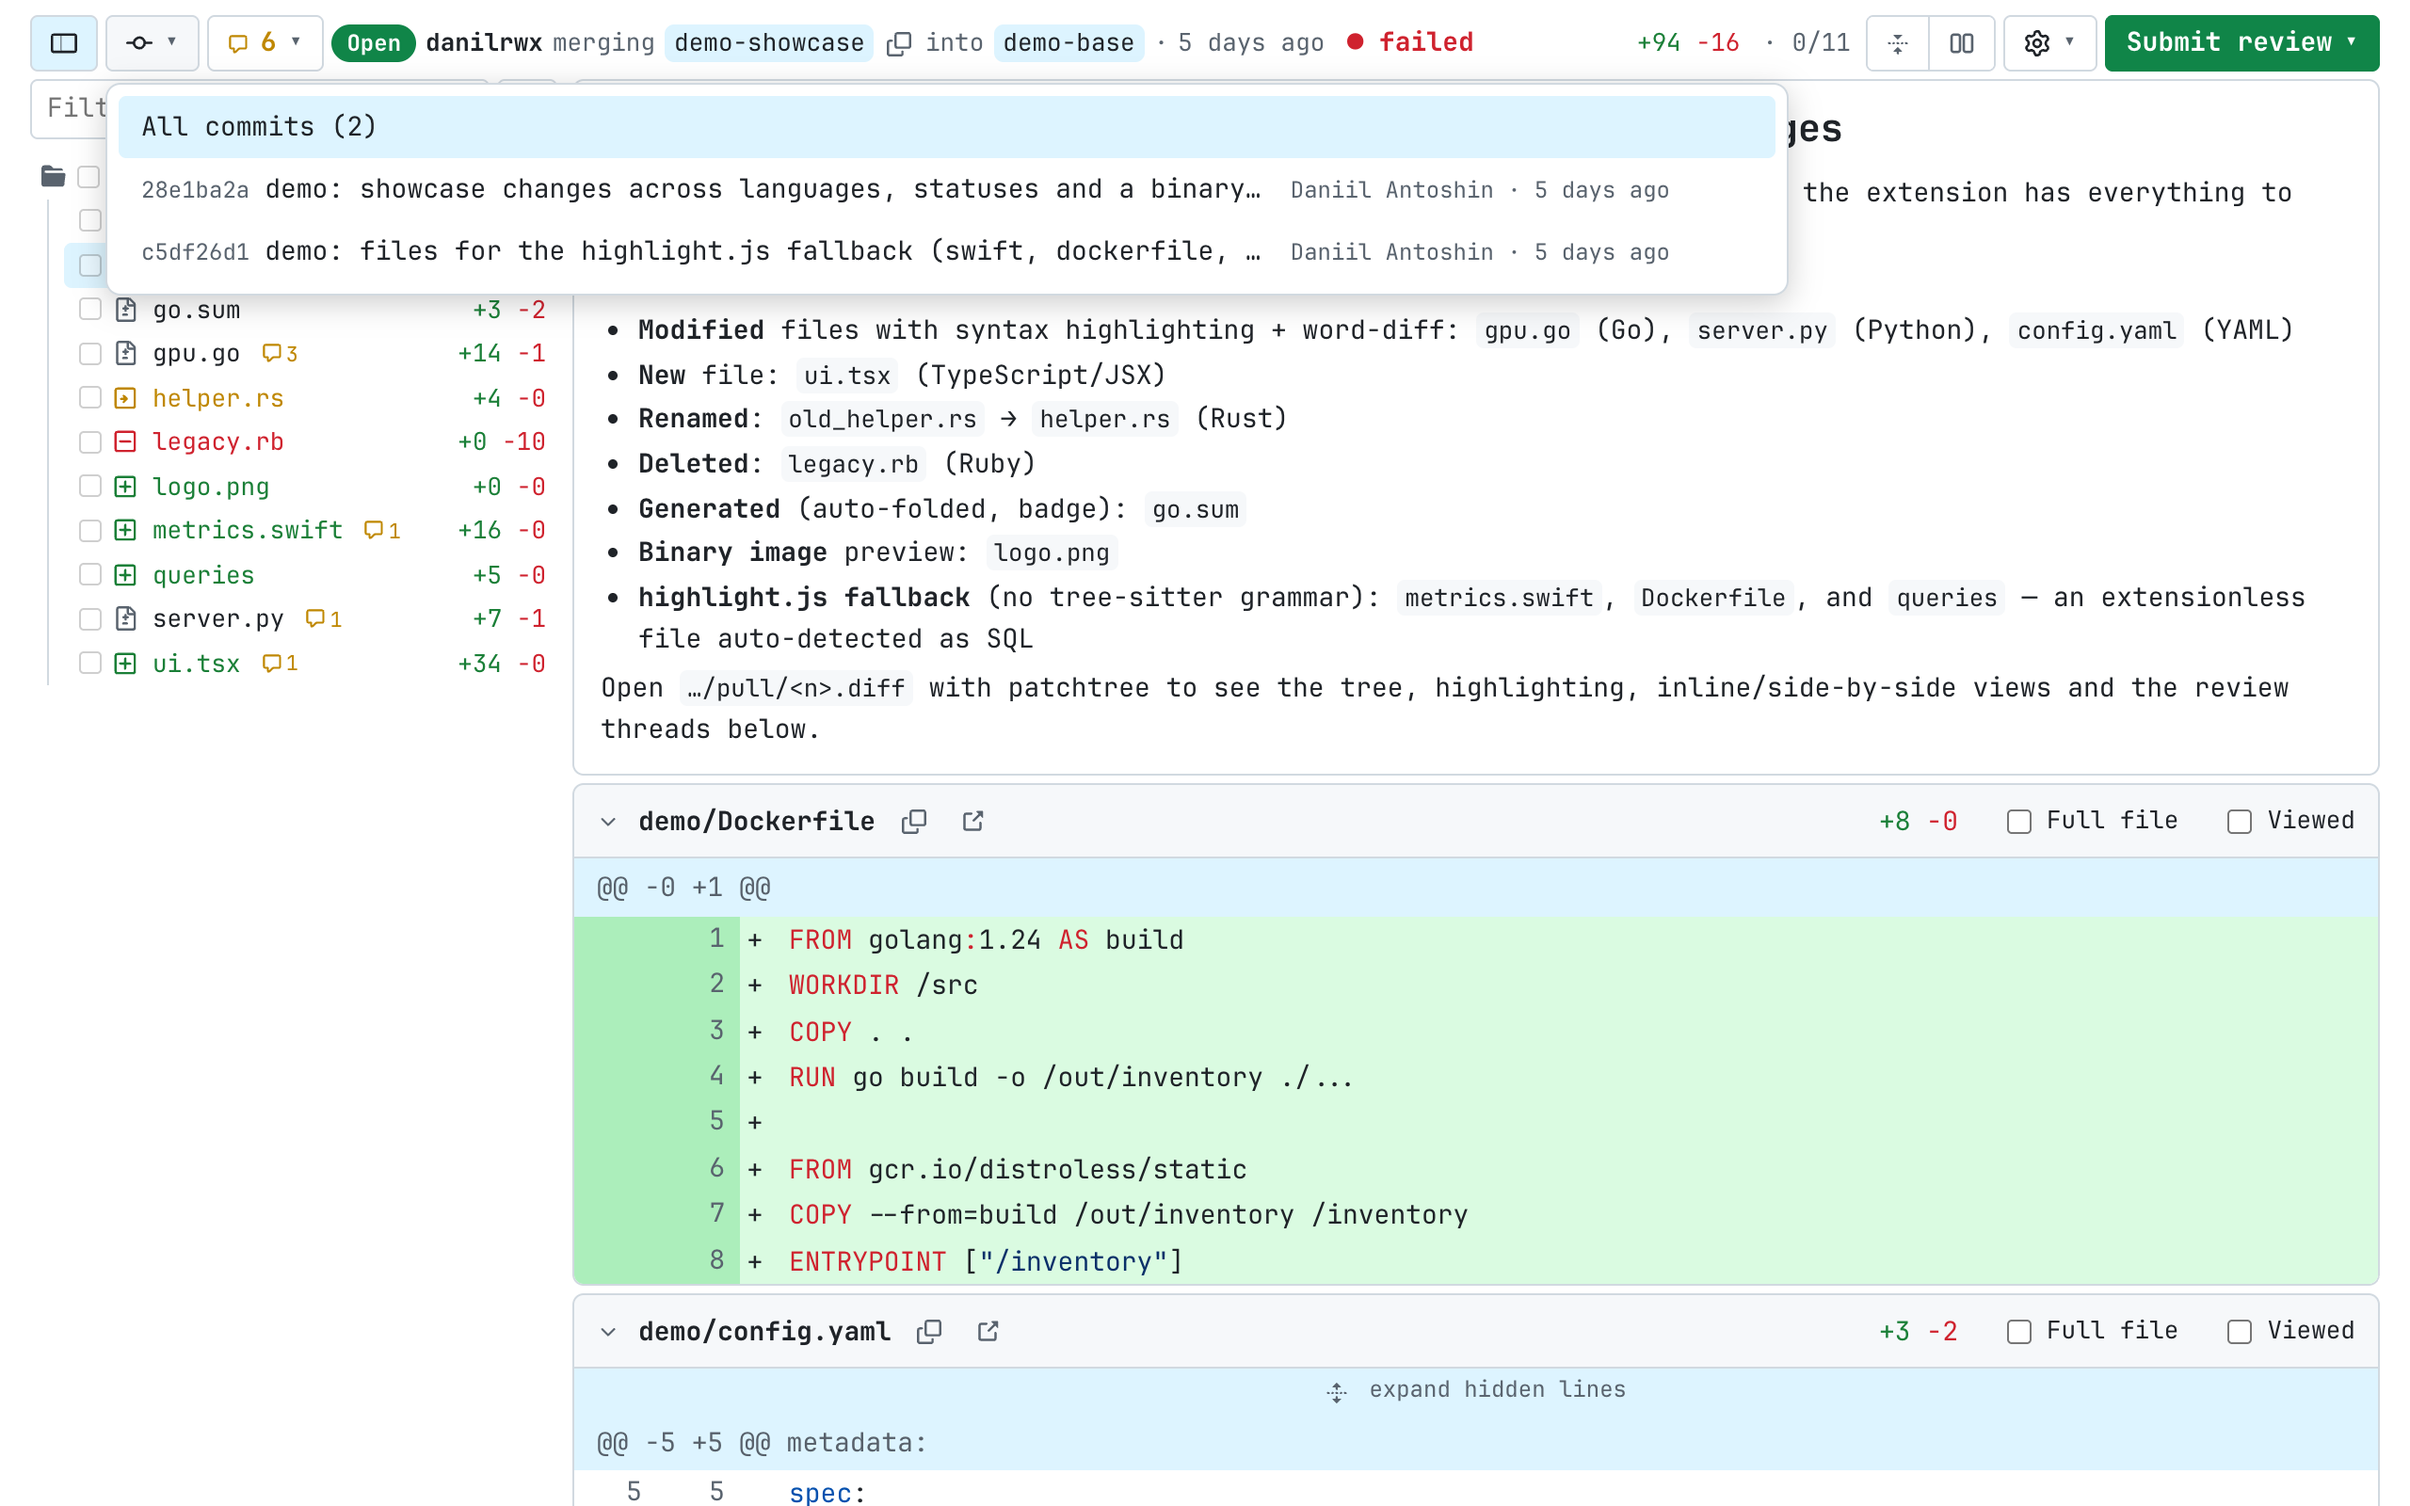
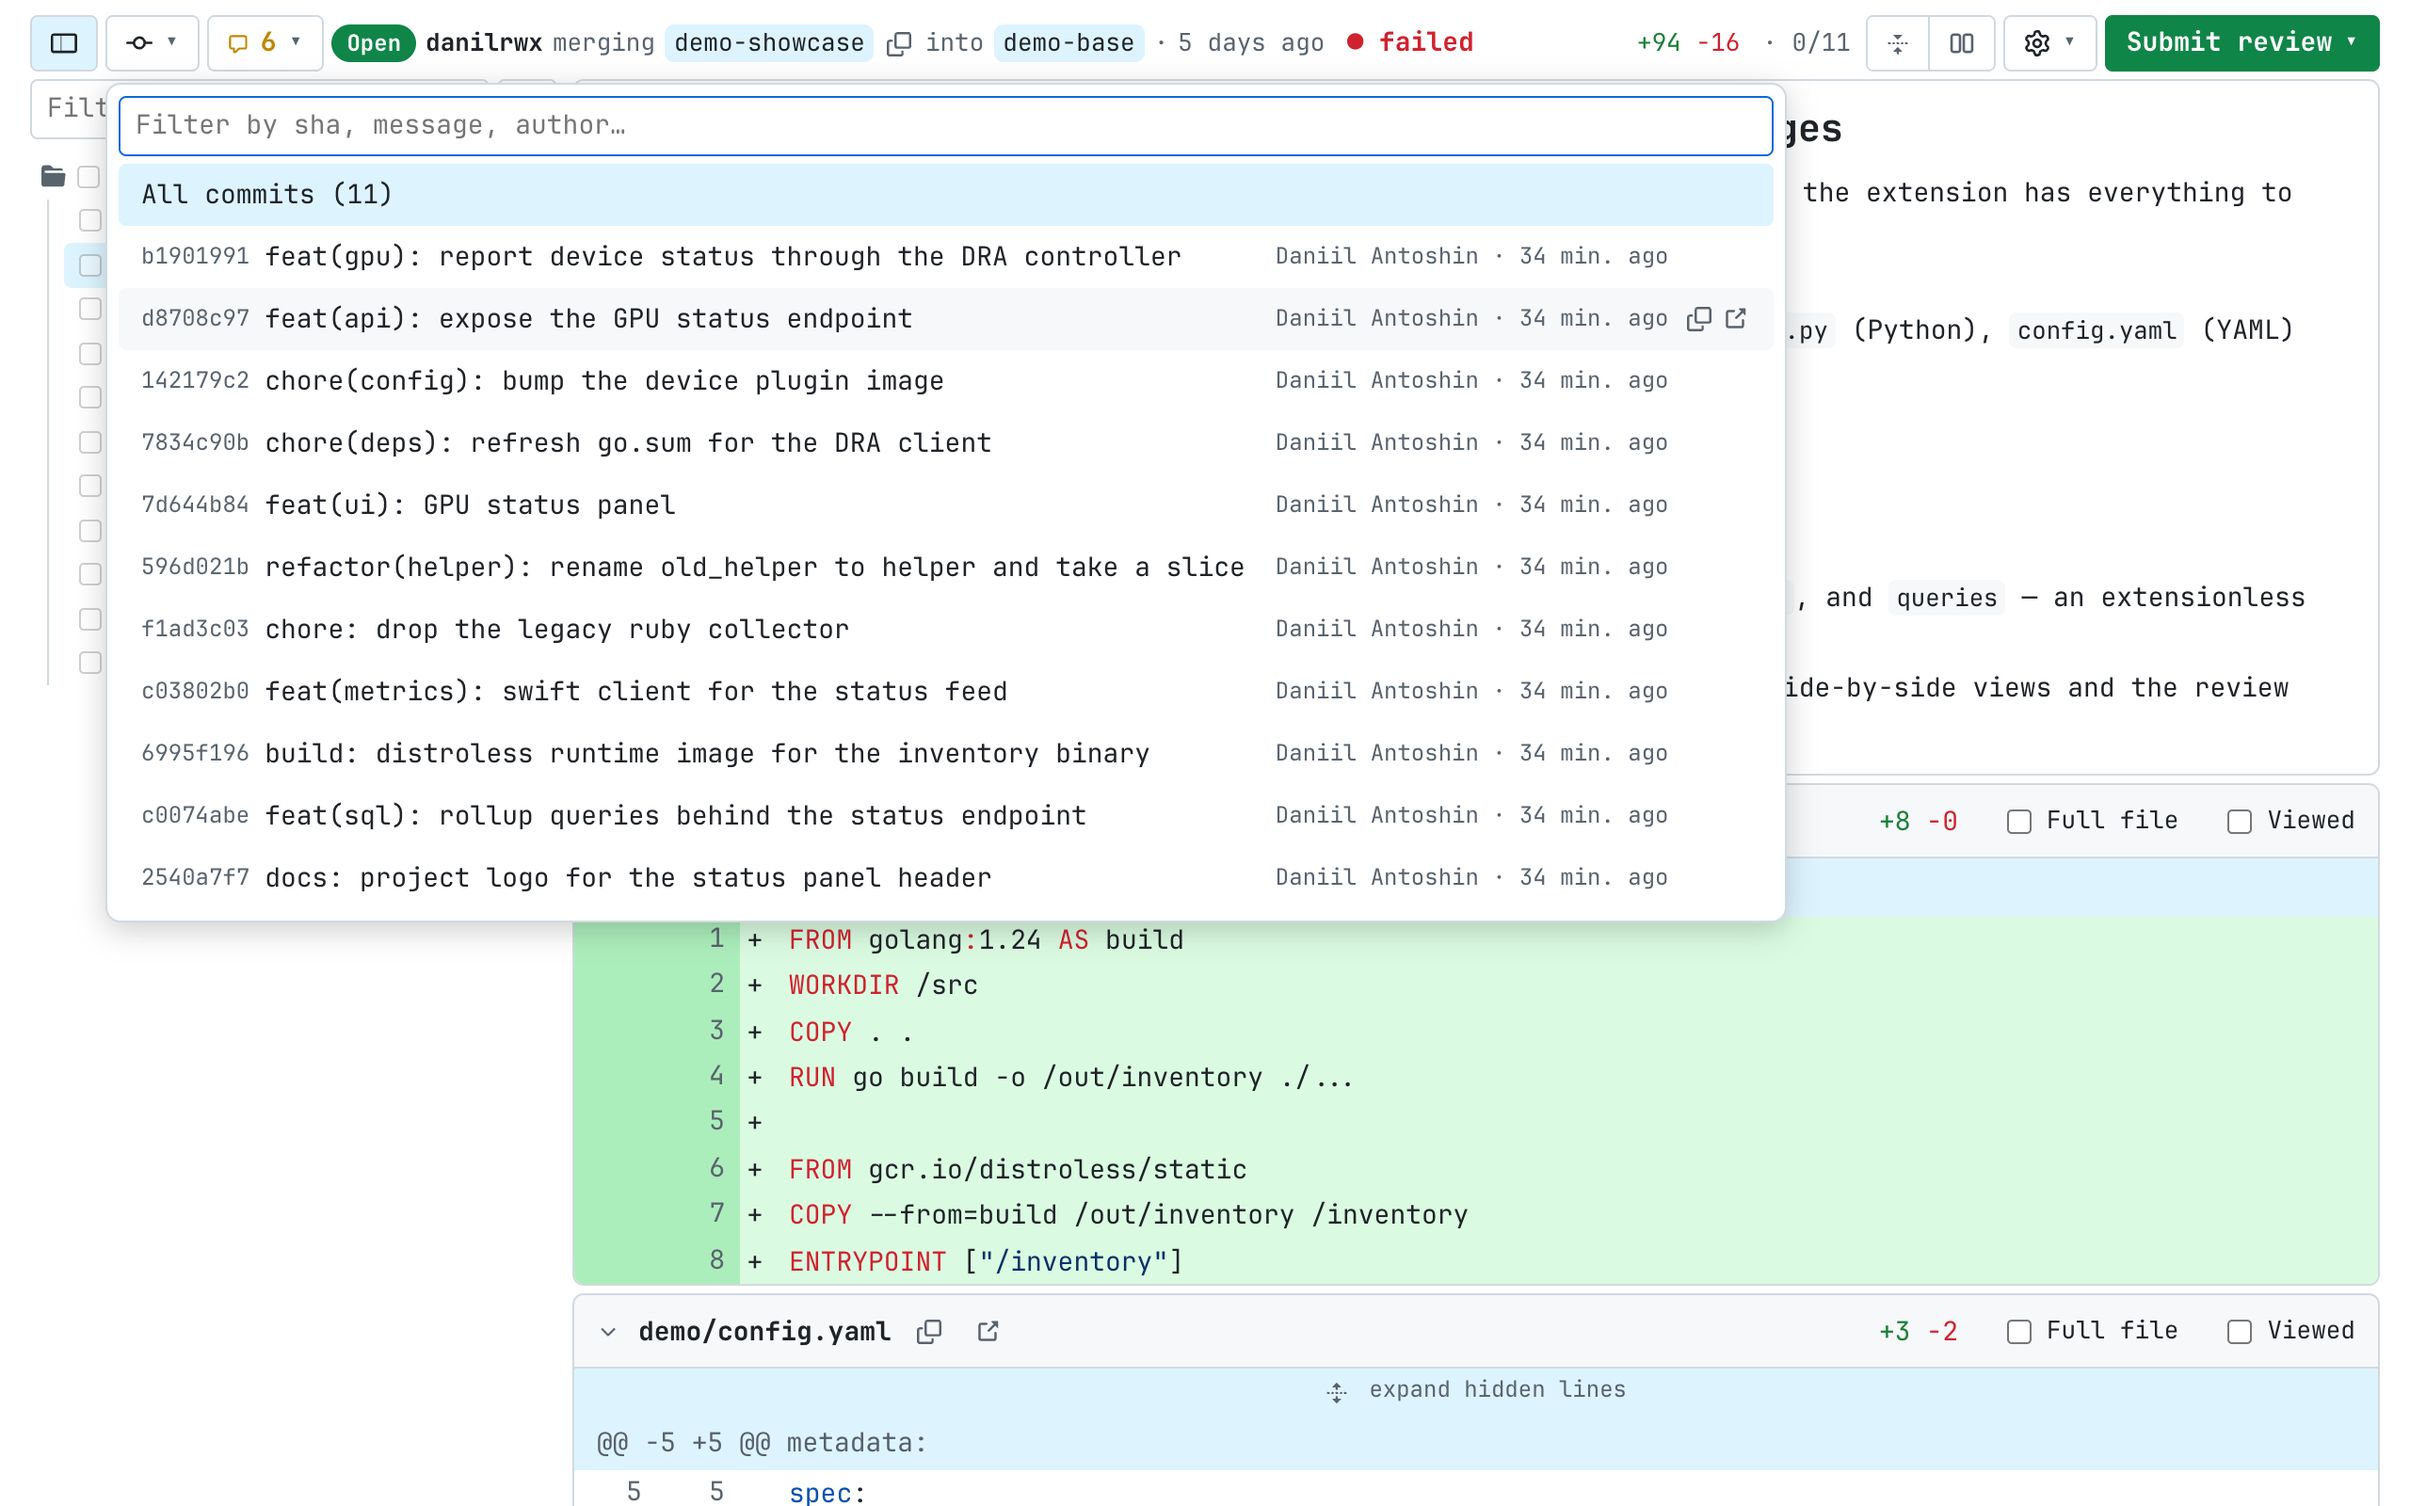
docs: gallery frames for the wider commit picker and thread list
The demo request now carries eleven commits — the same eleven files, one commit
each — so the picker's filter field is in frame instead of being invisible on a
two-commit branch. Both lists are shot with a row hovered, since the copy-sha,
open-on-host and resolve buttons only show there.

Changed region(s): [[0.0312, 0.0625, 0.75, 0.625], [0.5, 0.25, 0.5938, 0.3438]]

diff --git a/assets/viewer.css b/assets/viewer.css
@@ -982,6 +982,8 @@ html.pt-on {
 
 .pt-dd-meta {
   flex-shrink: 0;
+  /* a long title fills the row, so keep a visible gap before the metadata */
+  margin-left: 8px;
   max-width: 30%;
   overflow: hidden;
   text-overflow: ellipsis;

diff --git a/README.md b/README.md
@@ -107,8 +107,10 @@ background worker.
   with the commented line; existing suggestions render as a red/green
   widget with **Apply suggestion** (GitLab).
 - **Multiline comments**: shift-click a line number to extend the range.
-- **Resolve/unresolve** threads (GitLab) and an **unresolved badge** in
-  the toolbar that jumps to each open thread.
+- **Resolve/unresolve** threads (GitLab) and an **unresolved badge** in the
+  toolbar listing every open one — location, first comment, author, age and
+  reply count, in the diff's own file order — to jump to it, or resolve it
+  without leaving the bar. Long lists get a filter (file, author or text).
 - **Draft reviews** (GitLab): “Add to review” collects pending comments,
   published together by Submit review.
 - **Submit review** panel: summary comment + Comment / Approve (or
@@ -245,7 +247,8 @@ Keyboard shortcuts overlay (`?`):
 
 ![keyboard shortcuts](docs/screenshots/07-shortcuts.png)
 
-The unresolved badge jumps to each open thread:
+The unresolved badge lists every open thread — where it sits, who opened it and
+how long ago, with a resolve button right in the row:
 
 ![unresolved threads](docs/screenshots/08-unresolved.png)
 
